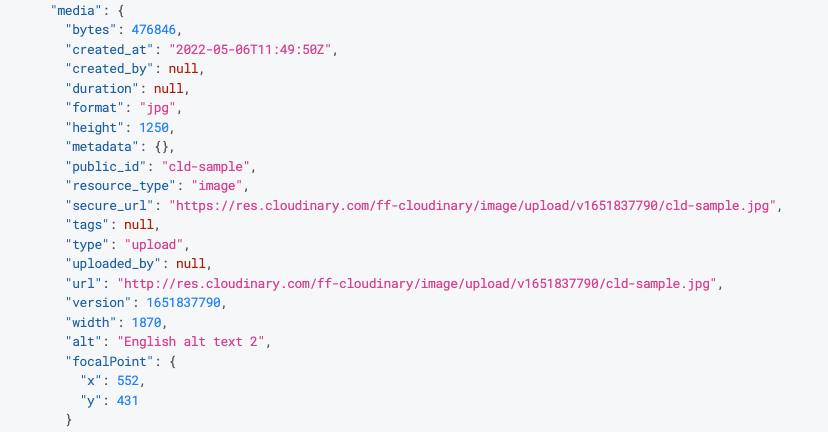
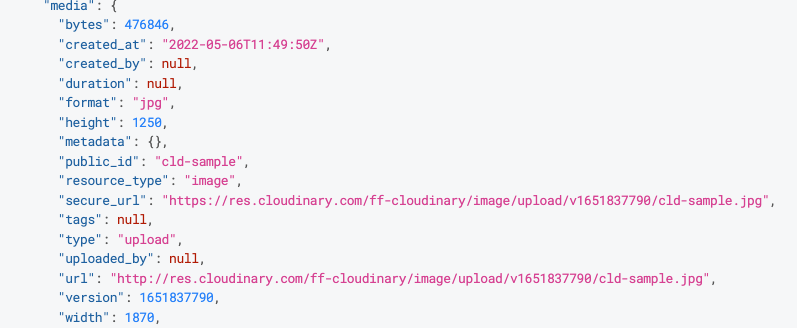
add id and remove focal point picker

Changed region(s): [[0.0602, 0.0, 0.9636, 1.0]]

diff --git a/src/index.tsx b/src/index.tsx
@@ -5,8 +5,8 @@ import {
   RenderManualFieldExtensionConfigScreenCtx,
   RenderModalCtx,
 } from "datocms-plugin-sdk";
-import { Button, Canvas } from "datocms-react-ui";
-import { Image, Video, Transformation, Placeholder } from "cloudinary-react";
+import { Canvas } from "datocms-react-ui";
+import { Image, Video, Placeholder } from "cloudinary-react";
 import { render } from "./utils/render";
 import "datocms-react-ui/styles.css";
 import FieldConfigScreen from "./entrypoints/FieldConfigScreen";
@@ -18,8 +18,8 @@ import {
   FieldImage,
 } from "./components/CloudinaryPickerButton";
 import get from "lodash.get";
-import { FocalPointPicker } from "./components/FocalPointPicker";
-import { FocalPointPickerButton } from "./components/FocalPointPickerButton";
+// import { FocalPointPicker } from "./components/FocalPointPicker";
+// import { FocalPointPickerButton } from "./components/FocalPointPickerButton";
 
 const FIELD_EXTENSION_ID = "cloudinaryPicker";
 const INITIAL_HEIGHT = 80;
@@ -72,13 +72,14 @@ connect({
         get(ctx.formValues, ctx.fieldPath)
       ) as FieldImage;
 
-      if (currentValue) {
+      if (currentValue && (currentValue.public_id || currentValue.id)) {
+        const publicId = currentValue.public_id || currentValue.id;
         if (currentValue.duration) {
           return render(
             <Canvas ctx={ctx}>
               <Video
                 cloudName={ctx.plugin.attributes.parameters.cloudName}
-                publicId={currentValue.public_id}
+                publicId={publicId}
                 width="auto"
                 controls
                 style={{
@@ -99,10 +100,10 @@ connect({
             <Canvas ctx={ctx}>
               <Image
                 cloudName={ctx.plugin.attributes.parameters.cloudName}
-                publicId={currentValue.public_id}
+                publicId={publicId}
                 height="500"
               >
-                {currentValue.focalPoint ? (
+                {/* {currentValue.focalPoint ? (
                   <Transformation
                     gravity="xy_center"
                     height="500"
@@ -110,13 +111,13 @@ connect({
                     y={currentValue.focalPoint.y}
                     crop="crop"
                   />
-                ) : null}
+                ) : null} */}
                 <Placeholder />
               </Image>
               {currentValue.alt ? <p>Alt text: {currentValue.alt}</p> : null}
               <div style={{ display: "flex" }}>
                 <CloudinaryPickerButton label="Pick new asset" ctx={ctx} />
-                <FocalPointPickerButton label="Set focal point" ctx={ctx} />
+                {/* <FocalPointPickerButton label="Set focal point" ctx={ctx} />
                 {currentValue.focalPoint ? (
                   <Canvas ctx={ctx}>
                     <Button
@@ -132,7 +133,7 @@ connect({
                       Remove focal point
                     </Button>
                   </Canvas>
-                ) : null}
+                ) : null} */}
               </div>
             </Canvas>
           );
@@ -148,8 +149,8 @@ connect({
     switch (modalId) {
       case "cloudinaryPickerModal":
         return render(<CloudinaryPicker ctx={ctx} />);
-      case "focalPointPickerModal":
-        return render(<FocalPointPicker ctx={ctx} />);
+      // case "focalPointPickerModal":
+      //   return render(<FocalPointPicker ctx={ctx} />);
     }
   },
 });

diff --git a/src/components/CloudinaryPickerButton.tsx b/src/components/CloudinaryPickerButton.tsx
@@ -39,6 +39,7 @@ export function CloudinaryPickerButton({ ctx, label }: PropTypes) {
         height: item.height,
         metadata: item.metadata,
         public_id: item.public_id,
+        id: item.public_id,
         resource_type: item.resource_type,
         secure_url: item.secure_url,
         tags: item.tags,

diff --git a/src/components/CloudinaryPicker.tsx b/src/components/CloudinaryPicker.tsx
@@ -8,6 +8,7 @@ type PropTypes = {
 
 export type Media = {
   public_id: string;
+  id: string;
   resource_type: string;
   secure_url?: string;
   width: number;

diff --git a/README.md b/README.md
@@ -2,8 +2,6 @@
 
 A plugin that turns a JSON field into a Cloudinary picker
 
-**Including Focal point picker**
-
 ## Configuration
 
 Configure the plugin with Cloudinary cloud name & Cloudinary public api key
